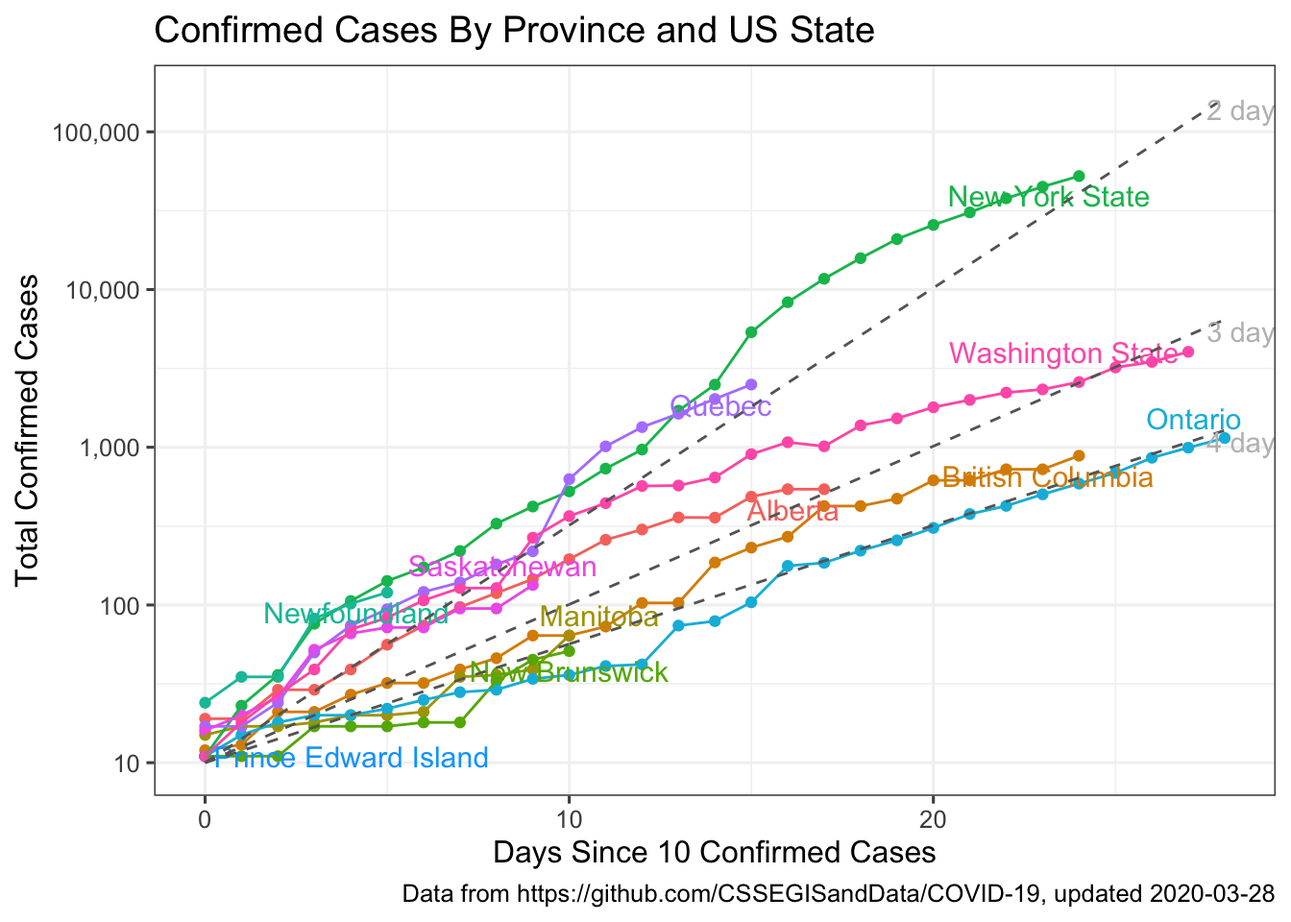
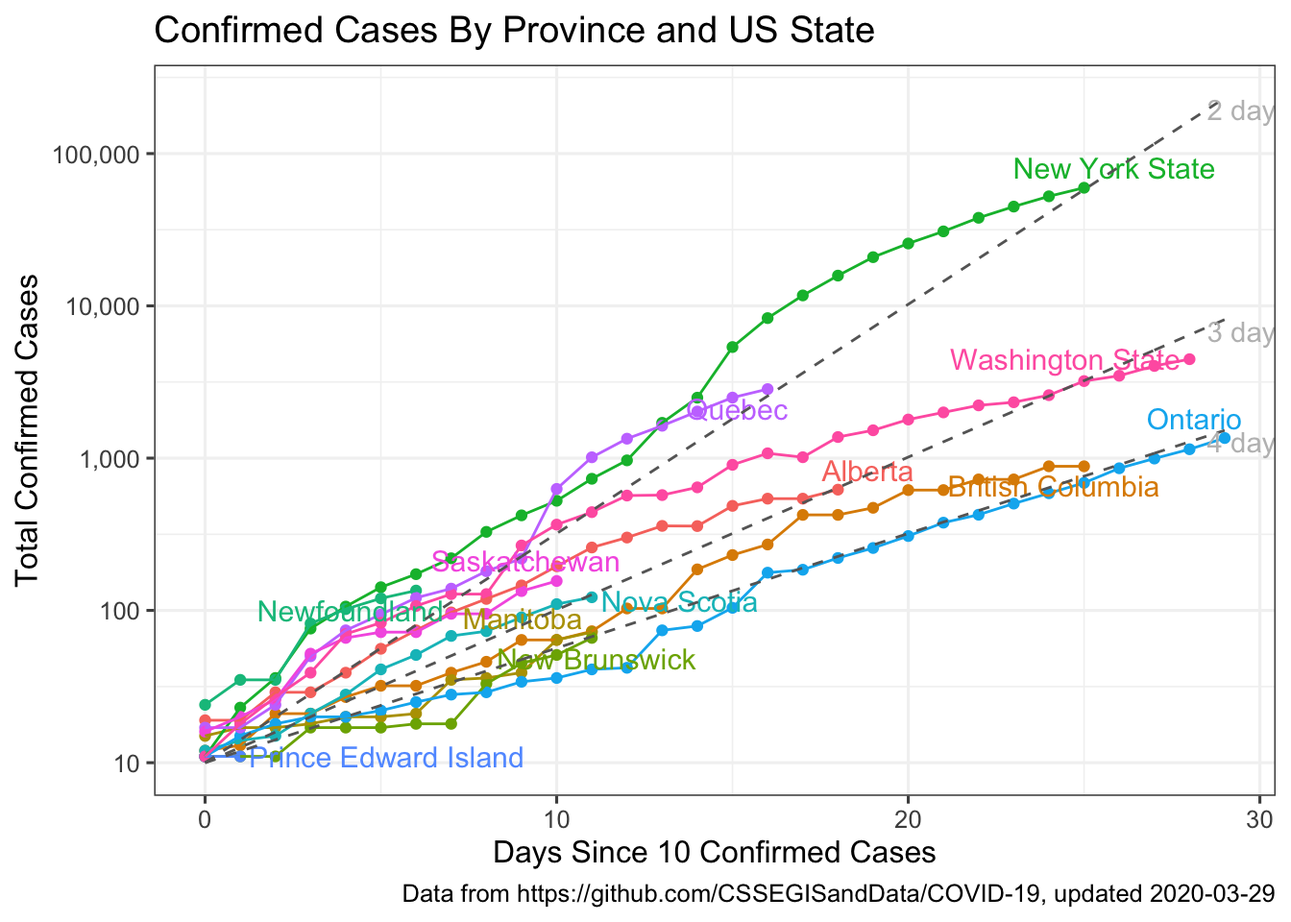
update site

diff --git a/static/post/2020-03-27-tracking-covid-19-in-canada_files/figure-html/widgets/widget_download_data.html b/static/post/2020-03-27-tracking-covid-19-in-canada_files/figure-html/widgets/widget_download_data.html
@@ -24,12 +24,12 @@
 </head>
 <body>
 <div id="htmlwidget_container">
-  <div id="htmlwidget-8314c16568a65170f43d" style="width:100%;height:500px;" class="datatables html-widget"></div>
+  <div id="htmlwidget-34a6102e4415be3c6f6c" style="width:100%;height:500px;" class="datatables html-widget"></div>
   <script>HTMLWidgets.pymChild = new pym.Child();HTMLWidgets.addPostRenderHandler(function(){
                                 setTimeout(function(){HTMLWidgets.pymChild.sendHeight();},100);
                             });</script>
 </div>
-<script type="application/json" data-for="htmlwidget-8314c16568a65170f43d">{"x":{"filter":"none","extensions":["Buttons"],"data":[["1","2","3","4","5","6","7","8","9","10","11","12","13","14","15","16","17","18","19","20","21","22","23","24","25","26","27","28","29","30","31","32","33","34","35","36","37","38","39","40","41","42","43","44","45","46","47","48","49","50","51","52","53","54","55","56","57","58","59","60","61","62","63","64","65","66","67","68","69","70","71","72","73","74","75","76","77","78","79","80","81","82","83","84","85","86","87","88","89","90","91","92","93","94","95","96","97","98","99","100","101","102","103","104","105","106","107","108","109","110","111","112","113","114","115","116","117","118","119","120","121","122","123","124","125","126","127","128","129","130","131","132","133","134","135","136","137","138","139","140","141","142","143","144","145","146","147","148","149","150","151","152","153","154","155","156","157","158","159","160","161","162","163","164","165","166","167","168","169","170","171","172","173","174","175","176","177","178","179","180","181","182","183","184","185","186","187","188","189","190","191","192","193","194","195","196","197","198","199","200","201","202","203","204","205","206","207","208","209","210","211","212","213","214","215","216","217","218","219","220","221","222","223","224","225","226","227","228","229","230","231","232","233","234","235","236","237","238","239","240","241","242","243","244","245","246","247","248","249","250","251","252","253","254","255","256","257","258","259","260","261","262","263","264","265","266","267","268","269","270","271","272","273","274","275","276","277","278","279","280","281","282","283","284","285","286","287","288","289","290","291","292","293","294","295","296","297","298","299","300","301","302","303","304","305","306","307","308","309","310","311","312","313","314","315","316","317","318","319","320","321","322","323","324","325","326","327","328","329","330","331","332","333","334","335","336","337","338","339","340","341","342","343","344","345","346","347","348","349","350","351","352","353","354","355","356","357"],["2020-03-06","2020-03-07","2020-03-08","2020-03-09","2020-03-10","2020-03-11","2020-03-12","2020-03-13","2020-03-14","2020-03-15","2020-03-16","2020-03-17","2020-03-18","2020-03-19","2020-03-20","2020-03-21","2020-03-22","2020-03-23","2020-03-24","2020-03-25","2020-03-26","2020-03-27","2020-03-28","2020-01-28","2020-01-29","2020-01-30","2020-01-31","2020-02-01","2020-02-02","2020-02-03","2020-02-04","2020-02-05","2020-02-06","2020-02-07","2020-02-08","2020-02-09","2020-02-10","2020-02-11","2020-02-12","2020-02-13","2020-02-14","2020-02-15","2020-02-16","2020-02-17","2020-02-18","2020-02-19","2020-02-20","2020-02-21","2020-02-22","2020-02-23","2020-02-24","2020-02-25","2020-02-26","2020-02-27","2020-02-28","2020-02-29","2020-03-01","2020-03-02","2020-03-03","2020-03-04","2020-03-05","2020-03-06","2020-03-07","2020-03-08","2020-03-09","2020-03-10","2020-03-11","2020-03-12","2020-03-13","2020-03-14","2020-03-15","2020-03-16","2020-03-17","2020-03-18","2020-03-19","2020-03-20","2020-03-21","2020-03-22","2020-03-23","2020-03-24","2020-03-25","2020-03-26","2020-03-27","2020-03-28","2020-03-13","2020-03-14","2020-03-15","2020-03-16","2020-03-17","2020-03-18","2020-03-19","2020-03-20","2020-03-21","2020-03-22","2020-03-23","2020-03-24","2020-03-25","2020-03-26","2020-03-27","2020-03-28","2020-03-11","2020-03-12","2020-03-13","2020-03-14","2020-03-15","2020-03-16","2020-03-17","2020-03-18","2020-03-19","2020-03-20","2020-03-21","2020-03-22","2020-03-23","2020-03-24","2020-03-25","2020-03-26","2020-03-27","2020-03-28","2020-03-15","2020-03-16","2020-03-17","2020-03-18","2020-03-19","2020-03-20","2020-03-21","2020-03-22","2020-03-23","2020-03-24","2020-03-25","2020-03-26","2020-03-27","2020-03-28","2020-03-21","2020-03-22","2020-03-26","2020-03-27","2020-03-28","2020-01-26","2020-01-27","2020-01-28","2020-01-29","2020-01-30","2020-01-31","2020-02-01","2020-02-02","2020-02-03","2020-02-04","2020-02-05","2020-02-06","2020-02-07","2020-02-08","2020-02-09","2020-02-10","2020-02-11","2020-02-12","2020-02-13","2020-02-14","2020-02-15","2020-02-16","2020-02-17","2020-02-18","2020-02-19","2020-02-20","2020-02-21","2020-02-22","2020-02-23","2020-02-24","2020-02-25","2020-02-26","2020-02-27","2020-02-28","2020-02-29","2020-03-01","2020-03-02","2020-03-03","2020-03-04","2020-03-05","2020-03-06","2020-03-07","2020-03-08","2020-03-09","2020-03-10","2020-03-11","2020-03-12","2020-03-13","2020-03-14","2020-03-15","2020-03-16","2020-03-17","2020-03-18","2020-03-19","2020-03-20","2020-03-21","2020-03-22","2020-03-23","2020-03-24","2020-03-25","2020-03-26","2020-03-27","2020-03-28","2020-03-15","2020-03-16","2020-03-17","2020-03-18","2020-03-19","2020-03-20","2020-03-21","2020-03-22","2020-03-23","2020-03-24","2020-03-25","2020-03-26","2020-03-27","2020-03-28","2020-02-28","2020-02-29","2020-03-01","2020-03-02","2020-03-03","2020-03-04","2020-03-05","2020-03-06","2020-03-07","2020-03-08","2020-03-09","2020-03-10","2020-03-11","2020-03-12","2020-03-13","2020-03-14","2020-03-15","2020-03-16","2020-03-17","2020-03-18","2020-03-19","2020-03-20","2020-03-21","2020-03-22","2020-03-23","2020-03-24","2020-03-25","2020-03-26","2020-03-27","2020-03-28","2020-03-13","2020-03-14","2020-03-15","2020-03-16","2020-03-17","2020-03-18","2020-03-19","2020-03-20","2020-03-21","2020-03-22","2020-03-23","2020-03-24","2020-03-25","2020-03-26","2020-03-27","2020-03-28","2020-03-26","2020-03-27","2020-03-28","2020-03-02","2020-03-03","2020-03-04","2020-03-05","2020-03-06","2020-03-07","2020-03-08","2020-03-09","2020-03-10","2020-03-11","2020-03-12","2020-03-13","2020-03-14","2020-03-15","2020-03-16","2020-03-17","2020-03-18","2020-03-19","2020-03-20","2020-03-21","2020-03-22","2020-03-23","2020-03-24","2020-03-25","2020-03-26","2020-03-27","2020-03-28","2020-01-22","2020-01-23","2020-01-24","2020-01-25","2020-01-26","2020-01-27","2020-01-28","2020-01-29","2020-01-30","2020-01-31","2020-02-01","2020-02-02","2020-02-03","2020-02-04","2020-02-05","2020-02-06","2020-02-07","2020-02-08","2020-02-09","2020-02-10","2020-02-11","2020-02-12","2020-02-13","2020-02-14","2020-02-15","2020-02-16","2020-02-17","2020-02-18","2020-02-19","2020-02-20","2020-02-21","2020-02-22","2020-02-23","2020-02-24","2020-02-25","2020-02-26","2020-02-27","2020-02-28","2020-02-29","2020-03-01","2020-03-02","2020-03-03","2020-03-04","2020-03-05","2020-03-06","2020-03-07","2020-03-08","2020-03-09","2020-03-10","2020-03-11","2020-03-12","2020-03-13","2020-03-14","2020-03-15","2020-03-16","2020-03-17","2020-03-18","2020-03-19","2020-03-20","2020-03-21","2020-03-22","2020-03-23","2020-03-24","2020-03-25","2020-03-26","2020-03-27","2020-03-28"],["Canada","Canada","Canada","Canada","Canada","Canada","Canada","Canada","Canada","Canada","Canada","Canada","Canada","Canada","Canada","Canada","Canada","Canada","Canada","Canada","Canada","Canada","Canada","Canada","Canada","Canada","Canada","Canada","Canada","Canada","Canada","Canada","Canada","Canada","Canada","Canada","Canada","Canada","Canada","Canada","Canada","Canada","Canada","Canada","Canada","Canada","Canada","Canada","Canada","Canada","Canada","Canada","Canada","Canada","Canada","Canada","Canada","Canada","Canada","Canada","Canada","Canada","Canada","Canada","Canada","Canada","Canada","Canada","Canada","Canada","Canada","Canada","Canada","Canada","Canada","Canada","Canada","Canada","Canada","Canada","Canada","Canada","Canada","Canada","Canada","Canada","Canada","Canada","Canada","Canada","Canada","Canada","Canada","Canada","Canada","Canada","Canada","Canada","Canada","Canada","Canada","Canada","Canada","Canada","Canada","Canada","Canada","Canada","Canada","Canada","Canada","Canada","Canada","Canada","Canada","Canada","Canada","Canada","Canada","Canada","Canada","Canada","Canada","Canada","Canada","Canada","Canada","Canada","Canada","Canada","Canada","Canada","Canada","Canada","Canada","Canada","Canada","Canada","Canada","Canada","Canada","Canada","Canada","Canada","Canada","Canada","Canada","Canada","Canada","Canada","Canada","Canada","Canada","Canada","Canada","Canada","Canada","Canada","Canada","Canada","Canada","Canada","Canada","Canada","Canada","Canada","Canada","Canada","Canada","Canada","Canada","Canada","Canada","Canada","Canada","Canada","Canada","Canada","Canada","Canada","Canada","Canada","Canada","Canada","Canada","Canada","Canada","Canada","Canada","Canada","Canada","Canada","Canada","Canada","Canada","Canada","Canada","Canada","Canada","Canada","Canada","Canada","Canada","Canada","Canada","Canada","Canada","Canada","Canada","Canada","Canada","Canada","Canada","Canada","Canada","Canada","Canada","Canada","Canada","Canada","Canada","Canada","Canada","Canada","Canada","Canada","Canada","Canada","Canada","Canada","Canada","Canada","Canada","Canada","Canada","Canada","Canada","Canada","Canada","Canada","Canada","Canada","Canada","Canada","Canada","Canada","Canada","Canada","Canada","Canada","Canada","Canada","Canada","Canada","Canada","Canada","Canada","Canada","Canada","Canada","Canada","Canada","Canada","US","US","US","US","US","US","US","US","US","US","US","US","US","US","US","US","US","US","US","US","US","US","US","US","US","US","US","US","US","US","US","US","US","US","US","US","US","US","US","US","US","US","US","US","US","US","US","US","US","US","US","US","US","US","US","US","US","US","US","US","US","US","US","US","US","US","US","US","US","US","US","US","US","US","US","US","US","US","US","US","US","US","US","US","US","US","US","US","US","US","US","US","US","US"],["Alberta","Alberta","Alberta","Alberta","Alberta","Alberta","Alberta","Alberta","Alberta","Alberta","Alberta","Alberta","Alberta","Alberta","Alberta","Alberta","Alberta","Alberta","Alberta","Alberta","Alberta","Alberta","Alberta","British Columbia","British Columbia","British Columbia","British Columbia","British Columbia","British Columbia","British Columbia","British Columbia","British Columbia","British Columbia","British Columbia","British Columbia","British Columbia","British Columbia","British Columbia","British Columbia","British Columbia","British Columbia","British Columbia","British Columbia","British Columbia","British Columbia","British Columbia","British Columbia","British Columbia","British Columbia","British Columbia","British Columbia","British Columbia","British Columbia","British Columbia","British Columbia","British Columbia","British Columbia","British Columbia","British Columbia","British Columbia","British Columbia","British Columbia","British Columbia","British Columbia","British Columbia","British Columbia","British Columbia","British Columbia","British Columbia","British Columbia","British Columbia","British Columbia","British Columbia","British Columbia","British Columbia","British Columbia","British Columbia","British Columbia","British Columbia","British Columbia","British Columbia","British Columbia","British Columbia","British Columbia","Manitoba","Manitoba","Manitoba","Manitoba","Manitoba","Manitoba","Manitoba","Manitoba","Manitoba","Manitoba","Manitoba","Manitoba","Manitoba","Manitoba","Manitoba","Manitoba","New Brunswick","New Brunswick","New Brunswick","New Brunswick","New Brunswick","New Brunswick","New Brunswick","New Brunswick","New Brunswick","New Brunswick","New Brunswick","New Brunswick","New Brunswick","New Brunswick","New Brunswick","New Brunswick","New Brunswick","New Brunswick","Newfoundland","Newfoundland","Newfoundland","Newfoundland","Newfoundland","Newfoundland","Newfoundland","Newfoundland","Newfoundland","Newfoundland","Newfoundland","Newfoundland","Newfoundland","Newfoundland","Northwest Territories","Northwest Territories","Northwest Territories","Northwest Territories","Northwest Territories","Ontario","Ontario","Ontario","Ontario","Ontario","Ontario","Ontario","Ontario","Ontario","Ontario","Ontario","Ontario","Ontario","Ontario","Ontario","Ontario","Ontario","Ontario","Ontario","Ontario","Ontario","Ontario","Ontario","Ontario","Ontario","Ontario","Ontario","Ontario","Ontario","Ontario","Ontario","Ontario","Ontario","Ontario","Ontario","Ontario","Ontario","Ontario","Ontario","Ontario","Ontario","Ontario","Ontario","Ontario","Ontario","Ontario","Ontario","Ontario","Ontario","Ontario","Ontario","Ontario","Ontario","Ontario","Ontario","Ontario","Ontario","Ontario","Ontario","Ontario","Ontario","Ontario","Ontario","Prince Edward Island","Prince Edward Island","Prince Edward Island","Prince Edward Island","Prince Edward Island","Prince Edward Island","Prince Edward Island","Prince Edward Island","Prince Edward Island","Prince Edward Island","Prince Edward Island","Prince Edward Island","Prince Edward Island","Prince Edward Island","Quebec","Quebec","Quebec","Quebec","Quebec","Quebec","Quebec","Quebec","Quebec","Quebec","Quebec","Quebec","Quebec","Quebec","Quebec","Quebec","Quebec","Quebec","Quebec","Quebec","Quebec","Quebec","Quebec","Quebec","Quebec","Quebec","Quebec","Quebec","Quebec","Quebec","Saskatchewan","Saskatchewan","Saskatchewan","Saskatchewan","Saskatchewan","Saskatchewan","Saskatchewan","Saskatchewan","Saskatchewan","Saskatchewan","Saskatchewan","Saskatchewan","Saskatchewan","Saskatchewan","Saskatchewan","Saskatchewan","Yukon","Yukon","Yukon","New York State","New York State","New York State","New York State","New York State","New York State","New York State","New York State","New York State","New York State","New York State","New York State","New York State","New York State","New York State","New York State","New York State","New York State","New York State","New York State","New York State","New York State","New York State","New York State","New York State","New York State","New York State","Washington State","Washington State","Washington State","Washington State","Washington State","Washington State","Washington State","Washington State","Washington State","Washington State","Washington State","Washington State","Washington State","Washington State","Washington State","Washington State","Washington State","Washington State","Washington State","Washington State","Washington State","Washington State","Washington State","Washington State","Washington State","Washington State","Washington State","Washington State","Washington State","Washington State","Washington State","Washington State","Washington State","Washington State","Washington State","Washington State","Washington State","Washington State","Washington State","Washington State","Washington State","Washington State","Washington State","Washington State","Washington State","Washington State","Washington State","Washington State","Washington State","Washington State","Washington State","Washington State","Washington State","Washington State","Washington State","Washington State","Washington State","Washington State","Washington State","Washington State","Washington State","Washington State","Washington State","Washington State","Washington State","Washington State","Washington State"],[null,null,null,null,null,0,1,2,3,4,5,6,7,8,9,10,11,12,13,14,15,16,17,null,null,null,null,null,null,null,null,null,null,null,null,null,null,null,null,null,null,null,null,null,null,null,null,null,null,null,null,null,null,null,null,null,null,null,null,0,1,2,3,4,5,6,7,8,9,10,11,12,13,14,15,16,17,18,19,20,21,22,23,24,null,null,null,null,null,0,1,2,3,4,5,6,7,8,9,10,null,null,null,null,null,null,null,0,1,2,3,4,5,6,7,8,9,10,null,null,null,null,null,null,null,null,0,1,2,3,4,5,null,null,null,null,null,null,null,null,null,null,null,null,null,null,null,null,null,null,null,null,null,null,null,null,null,null,null,null,null,null,null,null,null,null,null,null,null,null,null,0,1,2,3,4,5,6,7,8,9,10,11,12,13,14,15,16,17,18,19,20,21,22,23,24,25,26,27,28,null,null,null,null,null,null,null,null,null,null,null,null,null,0,null,null,null,null,null,null,null,null,null,null,null,null,null,null,0,1,2,3,4,5,6,7,8,9,10,11,12,13,14,15,null,null,null,null,null,null,0,1,2,3,4,5,6,7,8,9,null,null,null,null,null,0,1,2,3,4,5,6,7,8,9,10,11,12,13,14,15,16,17,18,19,20,21,22,23,24,null,null,null,null,null,null,null,null,null,null,null,null,null,null,null,null,null,null,null,null,null,null,null,null,null,null,null,null,null,null,null,null,null,null,null,null,null,null,null,0,1,2,3,4,5,6,7,8,9,10,11,12,13,14,15,16,17,18,19,20,21,22,23,24,25,26,27],[1,2,4,7,7,19,19,29,29,39,56,74,97,119,146,195,259,301,359,358,486,542,542,1,1,1,1,1,1,1,1,2,2,4,4,4,4,4,4,4,4,4,4,5,5,5,5,6,6,6,6,7,7,7,7,8,8,8,9,12,13,21,21,27,32,32,39,46,64,64,73,103,103,186,231,271,424,424,472,617,617,725,725,884,4,4,4,7,8,15,17,17,18,20,20,21,35,36,39,64,1,1,1,1,2,6,8,11,11,11,17,17,17,18,18,33,45,51,1,1,3,3,3,4,6,9,24,35,35,82,102,120,1,1,1,1,1,1,1,1,1,2,2,3,3,3,3,3,3,3,3,3,3,3,3,3,3,3,3,3,3,3,3,3,3,3,4,4,4,6,6,11,15,18,20,20,22,25,28,29,34,36,41,42,74,79,104,177,185,221,257,308,377,425,503,588,688,858,994,1144,1,1,1,1,2,2,2,3,3,3,5,5,9,11,1,1,1,1,1,1,2,2,3,4,3,4,8,9,17,17,24,50,74,94,121,139,181,219,628,1013,1342,1632,2024,2498,2,2,2,7,7,8,16,20,26,52,66,72,72,95,95,134,3,3,4,1,2,11,23,36,76,106,142,173,220,328,421,525,732,967,1706,2495,5365,8310,11710,15800,20884,25681,30841,37877,44876,52410,1,1,1,1,1,1,1,1,1,1,1,1,1,1,1,1,1,1,1,1,1,1,1,1,1,1,1,1,1,1,1,1,1,1,1,1,1,1,7,11,18,27,39,70,83,107,128,128,267,366,442,568,572,643,904,1076,1014,1376,1524,1793,1997,2221,2328,2591,3207,3477,4030],[0,0,0,0,0,0,0,0,0,0,0,0,0,0,1,1,1,1,1,2,2,2,2,null,null,null,null,0,0,0,0,0,0,0,0,0,0,0,0,0,0,0,0,0,0,0,0,0,0,0,0,0,0,0,0,0,0,0,0,0,0,0,0,0,1,1,1,1,1,1,1,4,4,7,7,8,10,10,13,13,13,14,14,17,0,0,0,0,0,0,0,0,0,0,0,0,0,0,1,1,0,0,0,0,0,0,0,0,0,0,0,0,0,0,0,0,0,0,0,0,0,0,0,0,0,0,0,0,0,0,0,0,0,0,0,0,0,null,null,null,null,null,null,0,0,0,0,0,0,0,0,0,0,0,0,0,0,0,0,0,0,0,0,0,0,0,0,0,0,0,0,0,0,0,0,0,0,0,0,0,0,0,0,0,0,0,0,0,1,1,1,2,3,5,6,7,8,13,18,18,0,0,0,0,0,0,0,0,0,0,0,0,0,0,0,0,0,0,0,0,0,0,0,0,0,0,0,0,0,0,0,0,0,0,1,1,5,4,4,4,6,8,18,22,0,0,0,0,0,0,0,0,0,0,0,0,0,0,0,0,0,0,0,0,0,0,0,0,0,0,0,0,0,0,0,2,3,10,13,16,34,42,60,117,158,210,285,385,527,728,null,null,null,null,null,null,null,null,null,null,0,0,0,0,0,0,0,0,0,0,0,0,0,0,0,0,0,0,0,0,0,0,0,0,0,0,0,0,1,1,6,7,10,11,13,16,18,19,23,29,31,37,37,40,48,55,55,74,83,94,97,109,116,133,150,157,188]],"container":"<table class=\"display\">\n  <thead>\n    <tr>\n      <th> <\/th>\n      <th>date<\/th>\n      <th>country<\/th>\n      <th>province<\/th>\n      <th>days_since_10_cases<\/th>\n      <th>confirmed<\/th>\n      <th>deaths<\/th>\n    <\/tr>\n  <\/thead>\n<\/table>","options":{"dom":"Bfrtip","buttons":["copy",{"extend":"collection","buttons":["csv","excel"],"text":"Download"}],"columnDefs":[{"className":"dt-right","targets":[4,5,6]},{"orderable":false,"targets":0}],"order":[],"autoWidth":false,"orderClasses":false}},"evals":[],"jsHooks":[]}</script>
-<script type="application/htmlwidget-sizing" data-for="htmlwidget-8314c16568a65170f43d">{"viewer":{"width":"100%","height":350,"padding":0,"fill":false},"browser":{"width":"100%","height":500,"padding":0,"fill":false}}</script>
+<script type="application/json" data-for="htmlwidget-34a6102e4415be3c6f6c">{"x":{"filter":"none","extensions":["Buttons"],"data":[["1","2","3","4","5","6","7","8","9","10","11","12","13","14","15","16","17","18","19","20","21","22","23","24","25","26","27","28","29","30","31","32","33","34","35","36","37","38","39","40","41","42","43","44","45","46","47","48","49","50","51","52","53","54","55","56","57","58","59","60","61","62","63","64","65","66","67","68","69","70","71","72","73","74","75","76","77","78","79","80","81","82","83","84","85","86","87","88","89","90","91","92","93","94","95","96","97","98","99","100","101","102","103","104","105","106","107","108","109","110","111","112","113","114","115","116","117","118","119","120","121","122","123","124","125","126","127","128","129","130","131","132","133","134","135","136","137","138","139","140","141","142","143","144","145","146","147","148","149","150","151","152","153","154","155","156","157","158","159","160","161","162","163","164","165","166","167","168","169","170","171","172","173","174","175","176","177","178","179","180","181","182","183","184","185","186","187","188","189","190","191","192","193","194","195","196","197","198","199","200","201","202","203","204","205","206","207","208","209","210","211","212","213","214","215","216","217","218","219","220","221","222","223","224","225","226","227","228","229","230","231","232","233","234","235","236","237","238","239","240","241","242","243","244","245","246","247","248","249","250","251","252","253","254","255","256","257","258","259","260","261","262","263","264","265","266","267","268","269","270","271","272","273","274","275","276","277","278","279","280","281","282","283","284","285","286","287","288","289","290","291","292","293","294","295","296","297","298","299","300","301","302","303","304","305","306","307","308","309","310","311","312","313","314","315","316","317","318","319","320","321","322","323","324","325","326","327","328","329","330","331","332","333","334","335","336","337","338","339","340","341","342","343","344","345","346","347","348","349","350","351","352","353","354","355","356","357","358","359","360","361","362","363","364","365","366","367","368","369","370","371","372","373","374","375","376","377","378","379","380","381","382","383","384"],["2020-03-06","2020-03-07","2020-03-08","2020-03-09","2020-03-10","2020-03-11","2020-03-12","2020-03-13","2020-03-14","2020-03-15","2020-03-16","2020-03-17","2020-03-18","2020-03-19","2020-03-20","2020-03-21","2020-03-22","2020-03-23","2020-03-24","2020-03-25","2020-03-26","2020-03-27","2020-03-28","2020-03-29","2020-01-28","2020-01-29","2020-01-30","2020-01-31","2020-02-01","2020-02-02","2020-02-03","2020-02-04","2020-02-05","2020-02-06","2020-02-07","2020-02-08","2020-02-09","2020-02-10","2020-02-11","2020-02-12","2020-02-13","2020-02-14","2020-02-15","2020-02-16","2020-02-17","2020-02-18","2020-02-19","2020-02-20","2020-02-21","2020-02-22","2020-02-23","2020-02-24","2020-02-25","2020-02-26","2020-02-27","2020-02-28","2020-02-29","2020-03-01","2020-03-02","2020-03-03","2020-03-04","2020-03-05","2020-03-06","2020-03-07","2020-03-08","2020-03-09","2020-03-10","2020-03-11","2020-03-12","2020-03-13","2020-03-14","2020-03-15","2020-03-16","2020-03-17","2020-03-18","2020-03-19","2020-03-20","2020-03-21","2020-03-22","2020-03-23","2020-03-24","2020-03-25","2020-03-26","2020-03-27","2020-03-28","2020-03-29","2020-03-13","2020-03-14","2020-03-15","2020-03-16","2020-03-17","2020-03-18","2020-03-19","2020-03-20","2020-03-21","2020-03-22","2020-03-23","2020-03-24","2020-03-25","2020-03-26","2020-03-27","2020-03-28","2020-03-29","2020-03-11","2020-03-12","2020-03-13","2020-03-14","2020-03-15","2020-03-16","2020-03-17","2020-03-18","2020-03-19","2020-03-20","2020-03-21","2020-03-22","2020-03-23","2020-03-24","2020-03-25","2020-03-26","2020-03-27","2020-03-28","2020-03-29","2020-03-15","2020-03-16","2020-03-17","2020-03-18","2020-03-19","2020-03-20","2020-03-21","2020-03-22","2020-03-23","2020-03-24","2020-03-25","2020-03-26","2020-03-27","2020-03-28","2020-03-29","2020-03-21","2020-03-22","2020-03-26","2020-03-27","2020-03-28","2020-03-29","2020-03-16","2020-03-17","2020-03-18","2020-03-19","2020-03-20","2020-03-21","2020-03-22","2020-03-23","2020-03-24","2020-03-25","2020-03-26","2020-03-27","2020-03-28","2020-03-29","2020-01-26","2020-01-27","2020-01-28","2020-01-29","2020-01-30","2020-01-31","2020-02-01","2020-02-02","2020-02-03","2020-02-04","2020-02-05","2020-02-06","2020-02-07","2020-02-08","2020-02-09","2020-02-10","2020-02-11","2020-02-12","2020-02-13","2020-02-14","2020-02-15","2020-02-16","2020-02-17","2020-02-18","2020-02-19","2020-02-20","2020-02-21","2020-02-22","2020-02-23","2020-02-24","2020-02-25","2020-02-26","2020-02-27","2020-02-28","2020-02-29","2020-03-01","2020-03-02","2020-03-03","2020-03-04","2020-03-05","2020-03-06","2020-03-07","2020-03-08","2020-03-09","2020-03-10","2020-03-11","2020-03-12","2020-03-13","2020-03-14","2020-03-15","2020-03-16","2020-03-17","2020-03-18","2020-03-19","2020-03-20","2020-03-21","2020-03-22","2020-03-23","2020-03-24","2020-03-25","2020-03-26","2020-03-27","2020-03-28","2020-03-29","2020-03-15","2020-03-16","2020-03-17","2020-03-18","2020-03-19","2020-03-20","2020-03-21","2020-03-22","2020-03-23","2020-03-24","2020-03-25","2020-03-26","2020-03-27","2020-03-28","2020-03-29","2020-02-28","2020-02-29","2020-03-01","2020-03-02","2020-03-03","2020-03-04","2020-03-05","2020-03-06","2020-03-07","2020-03-08","2020-03-09","2020-03-10","2020-03-11","2020-03-12","2020-03-13","2020-03-14","2020-03-15","2020-03-16","2020-03-17","2020-03-18","2020-03-19","2020-03-20","2020-03-21","2020-03-22","2020-03-23","2020-03-24","2020-03-25","2020-03-26","2020-03-27","2020-03-28","2020-03-29","2020-03-13","2020-03-14","2020-03-15","2020-03-16","2020-03-17","2020-03-18","2020-03-19","2020-03-20","2020-03-21","2020-03-22","2020-03-23","2020-03-24","2020-03-25","2020-03-26","2020-03-27","2020-03-28","2020-03-29","2020-03-26","2020-03-27","2020-03-28","2020-03-29","2020-03-02","2020-03-03","2020-03-04","2020-03-05","2020-03-06","2020-03-07","2020-03-08","2020-03-09","2020-03-10","2020-03-11","2020-03-12","2020-03-13","2020-03-14","2020-03-15","2020-03-16","2020-03-17","2020-03-18","2020-03-19","2020-03-20","2020-03-21","2020-03-22","2020-03-23","2020-03-24","2020-03-25","2020-03-26","2020-03-27","2020-03-28","2020-03-29","2020-01-22","2020-01-23","2020-01-24","2020-01-25","2020-01-26","2020-01-27","2020-01-28","2020-01-29","2020-01-30","2020-01-31","2020-02-01","2020-02-02","2020-02-03","2020-02-04","2020-02-05","2020-02-06","2020-02-07","2020-02-08","2020-02-09","2020-02-10","2020-02-11","2020-02-12","2020-02-13","2020-02-14","2020-02-15","2020-02-16","2020-02-17","2020-02-18","2020-02-19","2020-02-20","2020-02-21","2020-02-22","2020-02-23","2020-02-24","2020-02-25","2020-02-26","2020-02-27","2020-02-28","2020-02-29","2020-03-01","2020-03-02","2020-03-03","2020-03-04","2020-03-05","2020-03-06","2020-03-07","2020-03-08","2020-03-09","2020-03-10","2020-03-11","2020-03-12","2020-03-13","2020-03-14","2020-03-15","2020-03-16","2020-03-17","2020-03-18","2020-03-19","2020-03-20","2020-03-21","2020-03-22","2020-03-23","2020-03-24","2020-03-25","2020-03-26","2020-03-27","2020-03-28","2020-03-29"],["Canada","Canada","Canada","Canada","Canada","Canada","Canada","Canada","Canada","Canada","Canada","Canada","Canada","Canada","Canada","Canada","Canada","Canada","Canada","Canada","Canada","Canada","Canada","Canada","Canada","Canada","Canada","Canada","Canada","Canada","Canada","Canada","Canada","Canada","Canada","Canada","Canada","Canada","Canada","Canada","Canada","Canada","Canada","Canada","Canada","Canada","Canada","Canada","Canada","Canada","Canada","Canada","Canada","Canada","Canada","Canada","Canada","Canada","Canada","Canada","Canada","Canada","Canada","Canada","Canada","Canada","Canada","Canada","Canada","Canada","Canada","Canada","Canada","Canada","Canada","Canada","Canada","Canada","Canada","Canada","Canada","Canada","Canada","Canada","Canada","Canada","Canada","Canada","Canada","Canada","Canada","Canada","Canada","Canada","Canada","Canada","Canada","Canada","Canada","Canada","Canada","Canada","Canada","Canada","Canada","Canada","Canada","Canada","Canada","Canada","Canada","Canada","Canada","Canada","Canada","Canada","Canada","Canada","Canada","Canada","Canada","Canada","Canada","Canada","Canada","Canada","Canada","Canada","Canada","Canada","Canada","Canada","Canada","Canada","Canada","Canada","Canada","Canada","Canada","Canada","Canada","Canada","Canada","Canada","Canada","Canada","Canada","Canada","Canada","Canada","Canada","Canada","Canada","Canada","Canada","Canada","Canada","Canada","Canada","Canada","Canada","Canada","Canada","Canada","Canada","Canada","Canada","Canada","Canada","Canada","Canada","Canada","Canada","Canada","Canada","Canada","Canada","Canada","Canada","Canada","Canada","Canada","Canada","Canada","Canada","Canada","Canada","Canada","Canada","Canada","Canada","Canada","Canada","Canada","Canada","Canada","Canada","Canada","Canada","Canada","Canada","Canada","Canada","Canada","Canada","Canada","Canada","Canada","Canada","Canada","Canada","Canada","Canada","Canada","Canada","Canada","Canada","Canada","Canada","Canada","Canada","Canada","Canada","Canada","Canada","Canada","Canada","Canada","Canada","Canada","Canada","Canada","Canada","Canada","Canada","Canada","Canada","Canada","Canada","Canada","Canada","Canada","Canada","Canada","Canada","Canada","Canada","Canada","Canada","Canada","Canada","Canada","Canada","Canada","Canada","Canada","Canada","Canada","Canada","Canada","Canada","Canada","Canada","Canada","Canada","Canada","Canada","Canada","Canada","Canada","Canada","Canada","Canada","Canada","Canada","Canada","Canada","Canada","Canada","Canada","Canada","Canada","Canada","Canada","Canada","Canada","Canada","Canada","US","US","US","US","US","US","US","US","US","US","US","US","US","US","US","US","US","US","US","US","US","US","US","US","US","US","US","US","US","US","US","US","US","US","US","US","US","US","US","US","US","US","US","US","US","US","US","US","US","US","US","US","US","US","US","US","US","US","US","US","US","US","US","US","US","US","US","US","US","US","US","US","US","US","US","US","US","US","US","US","US","US","US","US","US","US","US","US","US","US","US","US","US","US","US","US"],["Alberta","Alberta","Alberta","Alberta","Alberta","Alberta","Alberta","Alberta","Alberta","Alberta","Alberta","Alberta","Alberta","Alberta","Alberta","Alberta","Alberta","Alberta","Alberta","Alberta","Alberta","Alberta","Alberta","Alberta","British Columbia","British Columbia","British Columbia","British Columbia","British Columbia","British Columbia","British Columbia","British Columbia","British Columbia","British Columbia","British Columbia","British Columbia","British Columbia","British Columbia","British Columbia","British Columbia","British Columbia","British Columbia","British Columbia","British Columbia","British Columbia","British Columbia","British Columbia","British Columbia","British Columbia","British Columbia","British Columbia","British Columbia","British Columbia","British Columbia","British Columbia","British Columbia","British Columbia","British Columbia","British Columbia","British Columbia","British Columbia","British Columbia","British Columbia","British Columbia","British Columbia","British Columbia","British Columbia","British Columbia","British Columbia","British Columbia","British Columbia","British Columbia","British Columbia","British Columbia","British Columbia","British Columbia","British Columbia","British Columbia","British Columbia","British Columbia","British Columbia","British Columbia","British Columbia","British Columbia","British Columbia","British Columbia","Manitoba","Manitoba","Manitoba","Manitoba","Manitoba","Manitoba","Manitoba","Manitoba","Manitoba","Manitoba","Manitoba","Manitoba","Manitoba","Manitoba","Manitoba","Manitoba","Manitoba","New Brunswick","New Brunswick","New Brunswick","New Brunswick","New Brunswick","New Brunswick","New Brunswick","New Brunswick","New Brunswick","New Brunswick","New Brunswick","New Brunswick","New Brunswick","New Brunswick","New Brunswick","New Brunswick","New Brunswick","New Brunswick","New Brunswick","Newfoundland","Newfoundland","Newfoundland","Newfoundland","Newfoundland","Newfoundland","Newfoundland","Newfoundland","Newfoundland","Newfoundland","Newfoundland","Newfoundland","Newfoundland","Newfoundland","Newfoundland","Northwest Territories","Northwest Territories","Northwest Territories","Northwest Territories","Northwest Territories","Northwest Territories","Nova Scotia","Nova Scotia","Nova Scotia","Nova Scotia","Nova Scotia","Nova Scotia","Nova Scotia","Nova Scotia","Nova Scotia","Nova Scotia","Nova Scotia","Nova Scotia","Nova Scotia","Nova Scotia","Ontario","Ontario","Ontario","Ontario","Ontario","Ontario","Ontario","Ontario","Ontario","Ontario","Ontario","Ontario","Ontario","Ontario","Ontario","Ontario","Ontario","Ontario","Ontario","Ontario","Ontario","Ontario","Ontario","Ontario","Ontario","Ontario","Ontario","Ontario","Ontario","Ontario","Ontario","Ontario","Ontario","Ontario","Ontario","Ontario","Ontario","Ontario","Ontario","Ontario","Ontario","Ontario","Ontario","Ontario","Ontario","Ontario","Ontario","Ontario","Ontario","Ontario","Ontario","Ontario","Ontario","Ontario","Ontario","Ontario","Ontario","Ontario","Ontario","Ontario","Ontario","Ontario","Ontario","Ontario","Prince Edward Island","Prince Edward Island","Prince Edward Island","Prince Edward Island","Prince Edward Island","Prince Edward Island","Prince Edward Island","Prince Edward Island","Prince Edward Island","Prince Edward Island","Prince Edward Island","Prince Edward Island","Prince Edward Island","Prince Edward Island","Prince Edward Island","Quebec","Quebec","Quebec","Quebec","Quebec","Quebec","Quebec","Quebec","Quebec","Quebec","Quebec","Quebec","Quebec","Quebec","Quebec","Quebec","Quebec","Quebec","Quebec","Quebec","Quebec","Quebec","Quebec","Quebec","Quebec","Quebec","Quebec","Quebec","Quebec","Quebec","Quebec","Saskatchewan","Saskatchewan","Saskatchewan","Saskatchewan","Saskatchewan","Saskatchewan","Saskatchewan","Saskatchewan","Saskatchewan","Saskatchewan","Saskatchewan","Saskatchewan","Saskatchewan","Saskatchewan","Saskatchewan","Saskatchewan","Saskatchewan","Yukon","Yukon","Yukon","Yukon","New York State","New York State","New York State","New York State","New York State","New York State","New York State","New York State","New York State","New York State","New York State","New York State","New York State","New York State","New York State","New York State","New York State","New York State","New York State","New York State","New York State","New York State","New York State","New York State","New York State","New York State","New York State","New York State","Washington State","Washington State","Washington State","Washington State","Washington State","Washington State","Washington State","Washington State","Washington State","Washington State","Washington State","Washington State","Washington State","Washington State","Washington State","Washington State","Washington State","Washington State","Washington State","Washington State","Washington State","Washington State","Washington State","Washington State","Washington State","Washington State","Washington State","Washington State","Washington State","Washington State","Washington State","Washington State","Washington State","Washington State","Washington State","Washington State","Washington State","Washington State","Washington State","Washington State","Washington State","Washington State","Washington State","Washington State","Washington State","Washington State","Washington State","Washington State","Washington State","Washington State","Washington State","Washington State","Washington State","Washington State","Washington State","Washington State","Washington State","Washington State","Washington State","Washington State","Washington State","Washington State","Washington State","Washington State","Washington State","Washington State","Washington State","Washington State"],[null,null,null,null,null,0,1,2,3,4,5,6,7,8,9,10,11,12,13,14,15,16,17,18,null,null,null,null,null,null,null,null,null,null,null,null,null,null,null,null,null,null,null,null,null,null,null,null,null,null,null,null,null,null,null,null,null,null,null,null,0,1,2,3,4,5,6,7,8,9,10,11,12,13,14,15,16,17,18,19,20,21,22,23,24,25,null,null,null,null,null,0,1,2,3,4,5,6,7,8,9,10,11,null,null,null,null,null,null,null,0,1,2,3,4,5,6,7,8,9,10,11,null,null,null,null,null,null,null,null,0,1,2,3,4,5,6,null,null,null,null,null,null,null,null,0,1,2,3,4,5,6,7,8,9,10,11,null,null,null,null,null,null,null,null,null,null,null,null,null,null,null,null,null,null,null,null,null,null,null,null,null,null,null,null,null,null,null,null,null,null,0,1,2,3,4,5,6,7,8,9,10,11,12,13,14,15,16,17,18,19,20,21,22,23,24,25,26,27,28,29,null,null,null,null,null,null,null,null,null,null,null,null,null,0,1,null,null,null,null,null,null,null,null,null,null,null,null,null,null,0,1,2,3,4,5,6,7,8,9,10,11,12,13,14,15,16,null,null,null,null,null,null,0,1,2,3,4,5,6,7,8,9,10,null,null,null,null,null,null,0,1,2,3,4,5,6,7,8,9,10,11,12,13,14,15,16,17,18,19,20,21,22,23,24,25,null,null,null,null,null,null,null,null,null,null,null,null,null,null,null,null,null,null,null,null,null,null,null,null,null,null,null,null,null,null,null,null,null,null,null,null,null,null,null,0,1,2,3,4,5,6,7,8,9,10,11,12,13,14,15,16,17,18,19,20,21,22,23,24,25,26,27,28],[1,2,4,7,7,19,19,29,29,39,56,74,97,119,146,195,259,301,359,358,486,542,542,621,1,1,1,1,1,1,1,1,2,2,4,4,4,4,4,4,4,4,4,4,5,5,5,5,6,6,6,6,7,7,7,7,8,8,8,9,12,13,21,21,27,32,32,39,46,64,64,73,103,103,186,231,271,424,424,472,617,617,725,725,884,884,4,4,4,7,8,15,17,17,18,20,20,21,35,36,39,64,72,1,1,1,1,2,6,8,11,11,11,17,17,17,18,18,33,45,51,66,1,1,3,3,3,4,6,9,24,35,35,82,102,120,135,1,1,1,1,1,1,5,7,12,14,15,21,28,41,51,68,73,90,110,122,1,1,1,1,2,2,3,3,3,3,3,3,3,3,3,3,3,3,3,3,3,3,3,3,3,3,3,3,3,4,4,4,6,6,11,15,18,20,20,22,25,28,29,34,36,41,42,74,79,104,177,185,221,257,308,377,425,503,588,688,858,994,1144,1355,1,1,1,1,2,2,2,3,3,3,5,5,9,11,11,1,1,1,1,1,1,2,2,3,4,3,4,8,9,17,17,24,50,74,94,121,139,181,219,628,1013,1342,1632,2024,2498,2840,2,2,2,7,7,8,16,20,26,52,66,72,72,95,95,134,156,3,3,4,4,1,2,11,23,36,76,106,142,173,220,328,421,525,732,967,1706,2495,5365,8310,11710,15800,20884,25681,30841,37877,44876,52410,59648,1,1,1,1,1,1,1,1,1,1,1,1,1,1,1,1,1,1,1,1,1,1,1,1,1,1,1,1,1,1,1,1,1,1,1,1,1,1,7,11,18,27,39,70,83,107,128,128,267,366,442,568,572,643,904,1076,1014,1376,1524,1793,1997,2221,2328,2591,3207,3477,4030,4465],[0,0,0,0,0,0,0,0,0,0,0,0,0,0,1,1,1,1,1,2,2,2,2,2,null,null,null,null,0,0,0,0,0,0,0,0,0,0,0,0,0,0,0,0,0,0,0,0,0,0,0,0,0,0,0,0,0,0,0,0,0,0,0,0,0,1,1,1,1,1,1,1,4,4,7,7,8,10,10,13,13,13,14,14,17,17,0,0,0,0,0,0,0,0,0,0,0,0,0,0,1,1,1,0,0,0,0,0,0,0,0,0,0,0,0,0,0,0,0,0,0,0,0,0,0,0,0,0,0,0,0,0,0,0,0,0,0,0,0,0,0,0,0,0,0,0,0,0,0,0,0,0,0,0,0,0,0,null,null,null,null,null,null,0,0,0,0,0,0,0,0,0,0,0,0,0,0,0,0,0,0,0,0,0,0,0,0,0,0,0,0,0,0,0,0,0,0,0,0,0,0,0,0,0,0,0,0,0,1,1,1,2,3,5,6,7,8,13,18,18,21,0,0,0,0,0,0,0,0,0,0,0,0,0,0,0,0,0,0,0,0,0,0,0,0,0,0,0,0,0,0,0,0,0,0,0,1,1,5,4,4,4,6,8,18,22,22,0,0,0,0,0,0,0,0,0,0,0,0,0,0,0,0,0,0,0,0,0,0,0,0,0,0,0,0,0,0,0,0,0,2,3,10,13,16,34,42,60,117,158,210,285,385,527,728,965,null,null,null,null,null,null,null,null,null,null,0,0,0,0,0,0,0,0,0,0,0,0,0,0,0,0,0,0,0,0,0,0,0,0,0,0,0,0,1,1,6,7,10,11,13,16,18,19,23,29,31,37,37,40,48,55,55,74,83,94,97,109,116,133,150,157,188,198]],"container":"<table class=\"display\">\n  <thead>\n    <tr>\n      <th> <\/th>\n      <th>date<\/th>\n      <th>country<\/th>\n      <th>province<\/th>\n      <th>days_since_10_cases<\/th>\n      <th>confirmed<\/th>\n      <th>deaths<\/th>\n    <\/tr>\n  <\/thead>\n<\/table>","options":{"dom":"Bfrtip","buttons":["copy",{"extend":"collection","buttons":["csv","excel"],"text":"Download"}],"columnDefs":[{"className":"dt-right","targets":[4,5,6]},{"orderable":false,"targets":0}],"order":[],"autoWidth":false,"orderClasses":false}},"evals":[],"jsHooks":[]}</script>
+<script type="application/htmlwidget-sizing" data-for="htmlwidget-34a6102e4415be3c6f6c">{"viewer":{"width":"100%","height":350,"padding":0,"fill":false},"browser":{"width":"100%","height":500,"padding":0,"fill":false}}</script>
 </body>
 </html>

diff --git a/content/post/2020-03-27-tracking-covid-19-in-canada.html b/content/post/2020-03-27-tracking-covid-19-in-canada.html
@@ -17,11 +17,12 @@ description: ''
 <script src="/rmarkdown-libs/widgetframe-binding/widgetframe.js"></script>
 
 
-<p><em>Last updated 2020-03-29 14:46:41 PDT.</em></p>
+<p><em>Last updated 2020-03-29 18:22:54 PDT.</em></p>
 <p>The Financial Times <a href="https://www.ft.com/coronavirus-latest">has a nice COVID-19 dashboard</a> that shows the growth in confirmed COVID-19 cases around the world, including for US states, but I haven’t seen a great version of these charts for Canadian provinces. I borrowed some of the methodology from that page to come up with some Canada-centric charts. Hopefully these will be helpful for some people. The data comes from the <a href="https://coronavirus.jhu.edu/map.html">Johns Hopkins COVID-19 resource center</a>, which they’ve shared publicly in <a href="https://github.com/CSSEGISandData/COVID-19">this GitHub repo</a>.</p>
 <p>I can’t guarantee the accuracy of the information here, but it should be consistent with what you can find on the Johns Hopkins dashboard. Please <a href="https://twitter.com/colin_fraser">send me a message on Twitter</a> if you find anything that seems suspicious.</p>
 <div id="current-tally" class="section level2">
 <h2>Current Tally</h2>
+<p>According to the latest data, as of 2020-03-29 there have been 6,267 confirmed cases reported in Canada, resulting in 63 deaths. Breakdowns by province are below.</p>
 <div id="confirmed-cases" class="section level3">
 <h3>Confirmed Cases</h3>
 <table>
@@ -30,75 +31,94 @@ description: ''
 <th align="left">Province</th>
 <th align="left">Most Recent Data</th>
 <th align="left">Confirmed Cases</th>
+<th align="right">New Cases</th>
 <th align="left">Average Daily Growth Rate (Last 7 days)</th>
 </tr>
 </thead>
 <tbody>
 <tr class="odd">
 <td align="left">Alberta</td>
-<td align="left">2020-03-28</td>
-<td align="left">542</td>
-<td align="left">16.5%</td>
+<td align="left">2020-03-29</td>
+<td align="left">621</td>
+<td align="right">79</td>
+<td align="left">13.9%</td>
 </tr>
 <tr class="even">
 <td align="left">British Columbia</td>
-<td align="left">2020-03-28</td>
+<td align="left">2020-03-29</td>
 <td align="left">884</td>
+<td align="right">0</td>
 <td align="left">11.6%</td>
 </tr>
 <tr class="odd">
 <td align="left">Manitoba</td>
-<td align="left">2020-03-28</td>
-<td align="left">64</td>
-<td align="left">22.6%</td>
+<td align="left">2020-03-29</td>
+<td align="left">72</td>
+<td align="right">8</td>
+<td align="left">22.8%</td>
 </tr>
 <tr class="even">
 <td align="left">New Brunswick</td>
-<td align="left">2020-03-28</td>
-<td align="left">51</td>
-<td align="left">19.8%</td>
+<td align="left">2020-03-29</td>
+<td align="left">66</td>
+<td align="right">15</td>
+<td align="left">24.0%</td>
 </tr>
 <tr class="odd">
 <td align="left">Newfoundland</td>
-<td align="left">2020-03-28</td>
-<td align="left">120</td>
-<td align="left">62.7%</td>
+<td align="left">2020-03-29</td>
+<td align="left">135</td>
+<td align="right">15</td>
+<td align="left">57.3%</td>
 </tr>
 <tr class="even">
 <td align="left">Northwest Territories</td>
-<td align="left">2020-03-28</td>
+<td align="left">2020-03-29</td>
 <td align="left">1</td>
+<td align="right">0</td>
 <td align="left">0.0%</td>
 </tr>
 <tr class="odd">
+<td align="left">Nova Scotia</td>
+<td align="left">2020-03-29</td>
+<td align="left">122</td>
+<td align="right">12</td>
+<td align="left">24.0%</td>
+</tr>
+<tr class="even">
 <td align="left">Ontario</td>
-<td align="left">2020-03-28</td>
-<td align="left">1,144</td>
-<td align="left">17.2%</td>
+<td align="left">2020-03-29</td>
+<td align="left">1,355</td>
+<td align="right">211</td>
+<td align="left">18.1%</td>
 </tr>
-<tr class="even">
+<tr class="odd">
 <td align="left">Prince Edward Island</td>
-<td align="left">2020-03-28</td>
+<td align="left">2020-03-29</td>
 <td align="left">11</td>
-<td align="left">31.3%</td>
-</tr>
-<tr class="odd">
-<td align="left">Quebec</td>
-<td align="left">2020-03-28</td>
-<td align="left">2,498</td>
-<td align="left">52.9%</td>
+<td align="right">0</td>
+<td align="left">24.1%</td>
 </tr>
 <tr class="even">
-<td align="left">Saskatchewan</td>
-<td align="left">2020-03-28</td>
-<td align="left">134</td>
-<td align="left">29.9%</td>
+<td align="left">Quebec</td>
+<td align="left">2020-03-29</td>
+<td align="left">2,840</td>
+<td align="right">342</td>
+<td align="left">51.9%</td>
 </tr>
 <tr class="odd">
+<td align="left">Saskatchewan</td>
+<td align="left">2020-03-29</td>
+<td align="left">156</td>
+<td align="right">22</td>
+<td align="left">17.9%</td>
+</tr>
+<tr class="even">
 <td align="left">Yukon</td>
-<td align="left">2020-03-28</td>
+<td align="left">2020-03-29</td>
 <td align="left">4</td>
-<td align="left">16.7%</td>
+<td align="right">0</td>
+<td align="left">11.1%</td>
 </tr>
 </tbody>
 </table>
@@ -110,40 +130,46 @@ description: ''
 <tr class="header">
 <th align="left">Province</th>
 <th align="left">Most Recent Data</th>
-<th align="left">Deaths</th>
+<th align="left">Total Deaths</th>
+<th align="right">New Deaths</th>
 <th align="left">Average Daily Growth Rate (Last 7 days)</th>
 </tr>
 </thead>
 <tbody>
 <tr class="odd">
 <td align="left">Alberta</td>
-<td align="left">2020-03-28</td>
+<td align="left">2020-03-29</td>
 <td align="left">2</td>
+<td align="right">0</td>
 <td align="left">14.3%</td>
 </tr>
 <tr class="even">
 <td align="left">British Columbia</td>
-<td align="left">2020-03-28</td>
+<td align="left">2020-03-29</td>
 <td align="left">17</td>
+<td align="right">0</td>
 <td align="left">8.4%</td>
 </tr>
 <tr class="odd">
 <td align="left">Manitoba</td>
-<td align="left">2020-03-28</td>
+<td align="left">2020-03-29</td>
 <td align="left">1</td>
+<td align="right">0</td>
 <td align="left">NA</td>
 </tr>
 <tr class="even">
 <td align="left">Ontario</td>
-<td align="left">2020-03-28</td>
-<td align="left">18</td>
-<td align="left">31.2%</td>
+<td align="left">2020-03-29</td>
+<td align="left">21</td>
+<td align="right">3</td>
+<td align="left">24.1%</td>
 </tr>
 <tr class="odd">
 <td align="left">Quebec</td>
-<td align="left">2020-03-28</td>
+<td align="left">2020-03-29</td>
 <td align="left">22</td>
-<td align="left">30.1%</td>
+<td align="right">0</td>
+<td align="left">32.9%</td>
 </tr>
 </tbody>
 </table>
